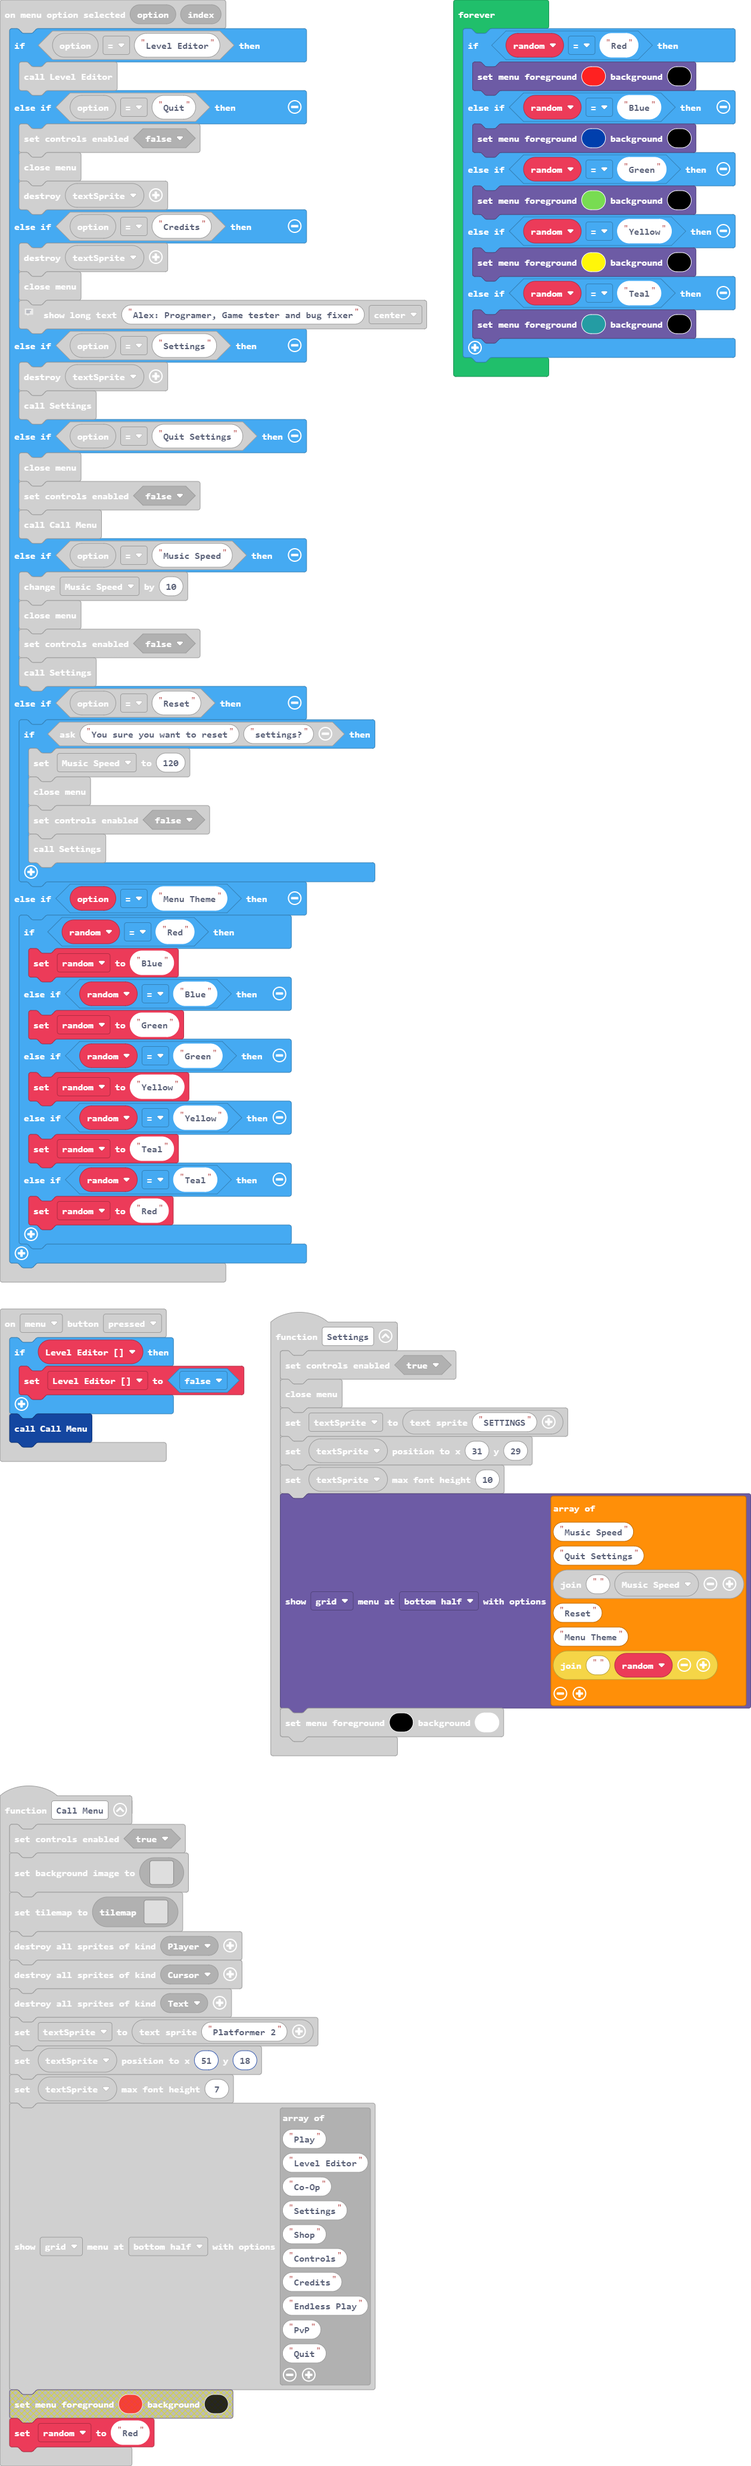
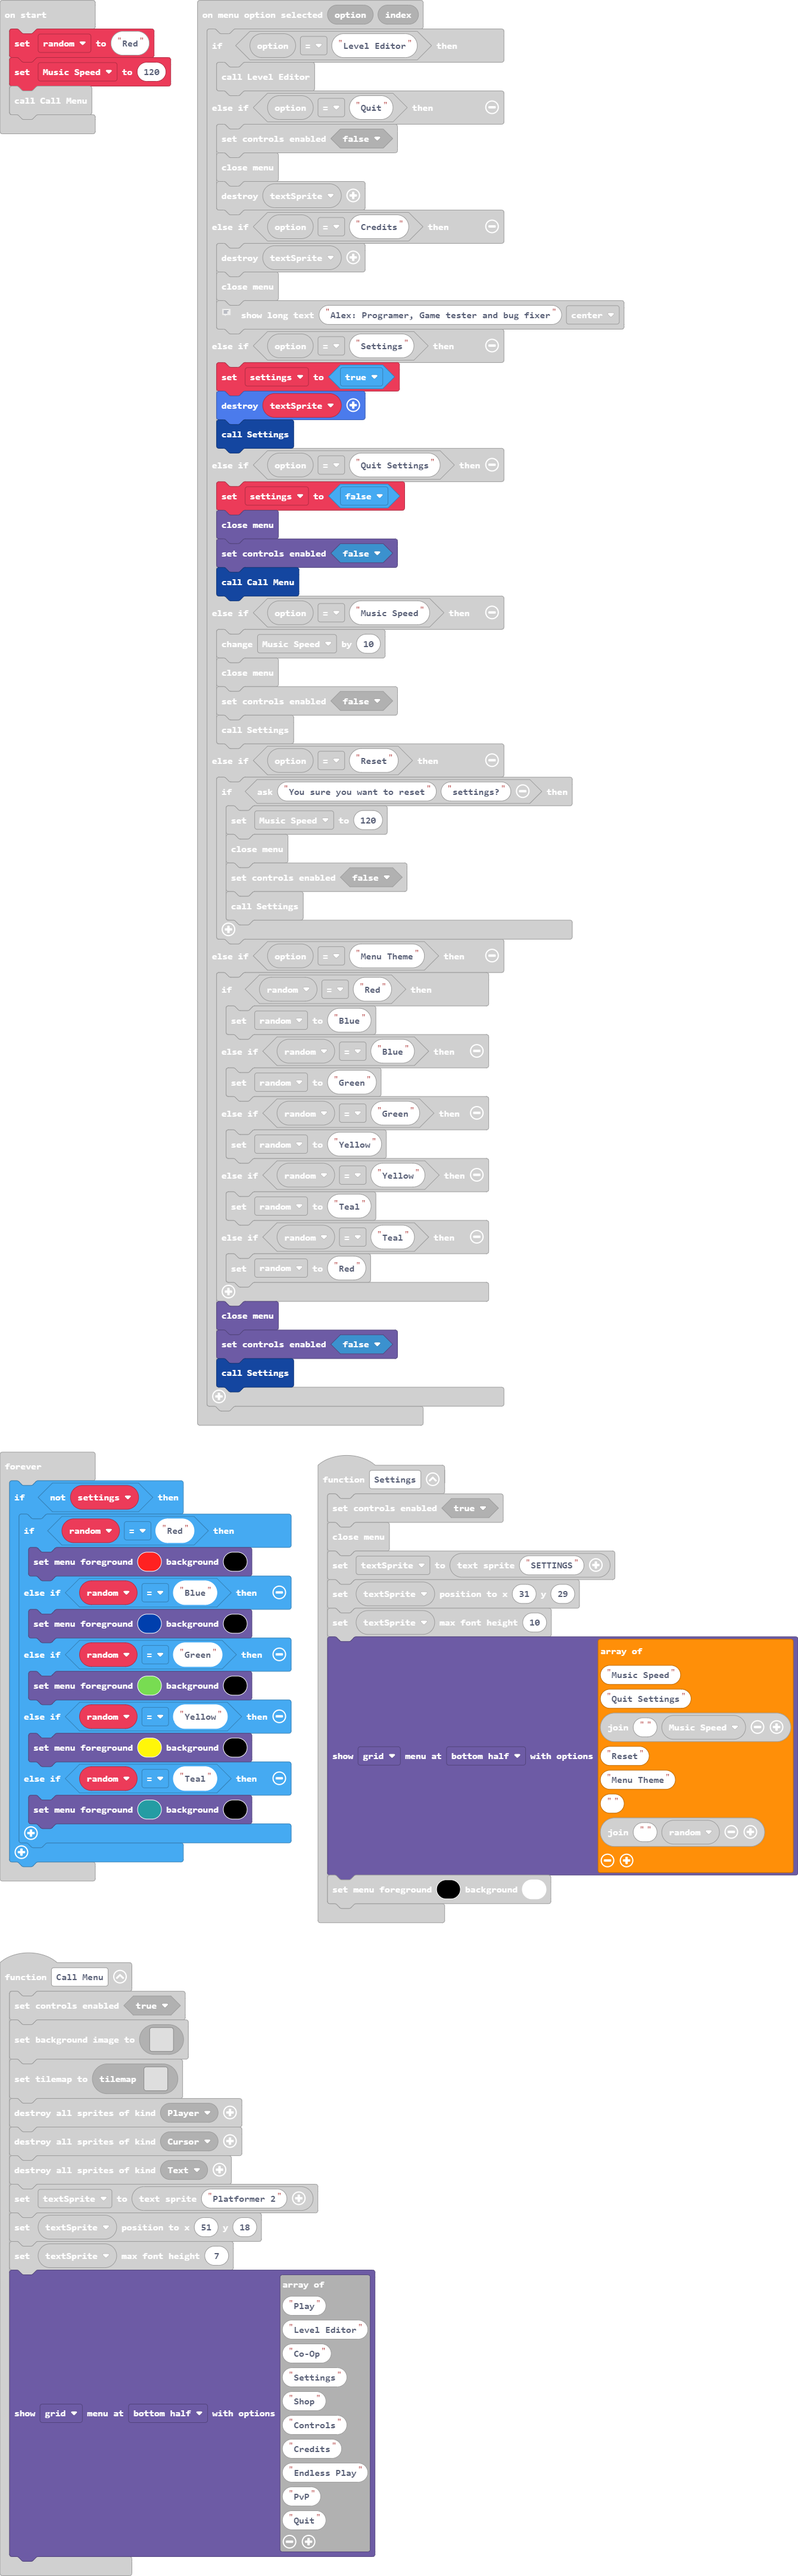
Update main.blocks, main.ts

diff --git a/main.ts b/main.ts
@@ -49,6 +49,7 @@ function Settings () {
     "" + Music_Speed,
     "Reset",
     "Menu Theme",
+    "",
     "" + random
     ], MenuStyle.Grid, MenuLocation.BottomHalf)
     blockMenu.setColors(15, 1)
@@ -196,7 +197,6 @@ function Call_Menu () {
     "PvP",
     "Quit"
     ], MenuStyle.Grid, MenuLocation.BottomHalf)
-    random = "Red"
 }
 controller.menu.onEvent(ControllerButtonEvent.Pressed, function () {
     if (Level_Editor_) {
@@ -371,9 +371,11 @@ blockMenu.onMenuOptionSelected(function (option, index) {
         // If editing add name here
         game.showLongText("Alex: Programer, Game tester and bug fixer", DialogLayout.Center)
     } else if (option == "Settings") {
+        settings2 = true
         sprites.destroy(textSprite)
         Settings()
     } else if (option == "Quit Settings") {
+        settings2 = false
         blockMenu.closeMenu()
         blockMenu.setControlsEnabled(false)
         Call_Menu()
@@ -401,6 +403,9 @@ blockMenu.onMenuOptionSelected(function (option, index) {
         } else if (random == "Teal") {
             random = "Red"
         }
+        blockMenu.closeMenu()
+        blockMenu.setControlsEnabled(false)
+        Settings()
     }
 })
 controller.left.onEvent(ControllerButtonEvent.Repeated, function () {
@@ -437,13 +442,15 @@ controller.left.onEvent(ControllerButtonEvent.Repeated, function () {
         }
     }
 })
-let random = ""
+let settings2 = false
 let textSprite: TextSprite = null
 let Level_Editor_Cursor: Sprite = null
 let Level_Editor_ = false
 let mySprite: Sprite = null
 let Level_Editor_2 = false
 let Music_Speed = 0
+let random = ""
+random = "Red"
 Music_Speed = 120
 Call_Menu()
 forever(function () {
@@ -455,15 +462,17 @@ forever(function () {
     }
 })
 forever(function () {
-    if (random == "Red") {
-        blockMenu.setColors(2, 15)
-    } else if (random == "Blue") {
-        blockMenu.setColors(8, 15)
-    } else if (random == "Green") {
-        blockMenu.setColors(7, 15)
-    } else if (random == "Yellow") {
-        blockMenu.setColors(5, 15)
-    } else if (random == "Teal") {
-        blockMenu.setColors(6, 15)
+    if (!(settings2)) {
+        if (random == "Red") {
+            blockMenu.setColors(2, 15)
+        } else if (random == "Blue") {
+            blockMenu.setColors(8, 15)
+        } else if (random == "Green") {
+            blockMenu.setColors(7, 15)
+        } else if (random == "Yellow") {
+            blockMenu.setColors(5, 15)
+        } else if (random == "Teal") {
+            blockMenu.setColors(6, 15)
+        }
     }
 })
